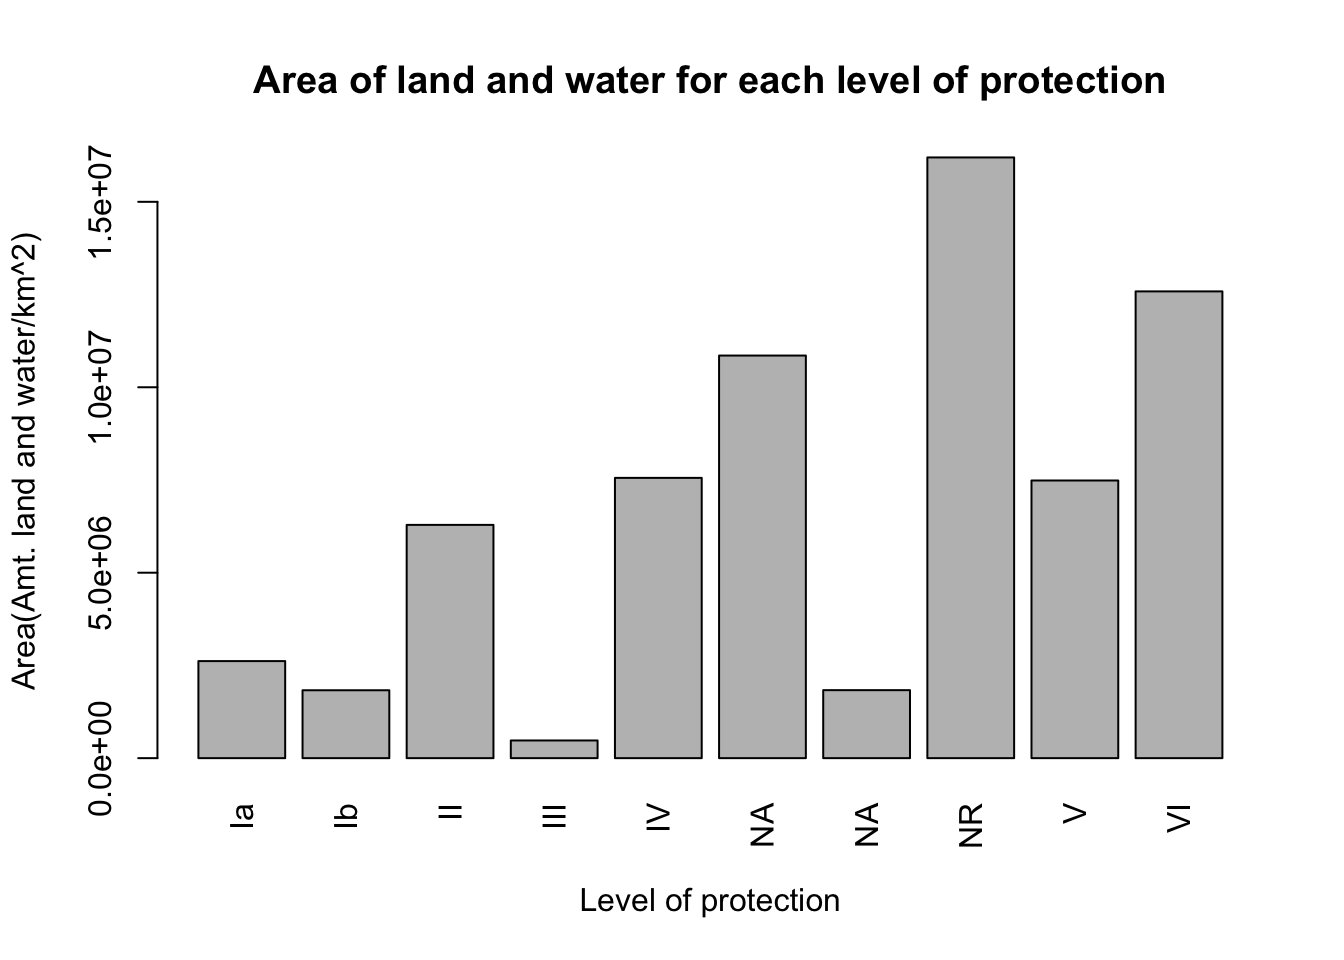
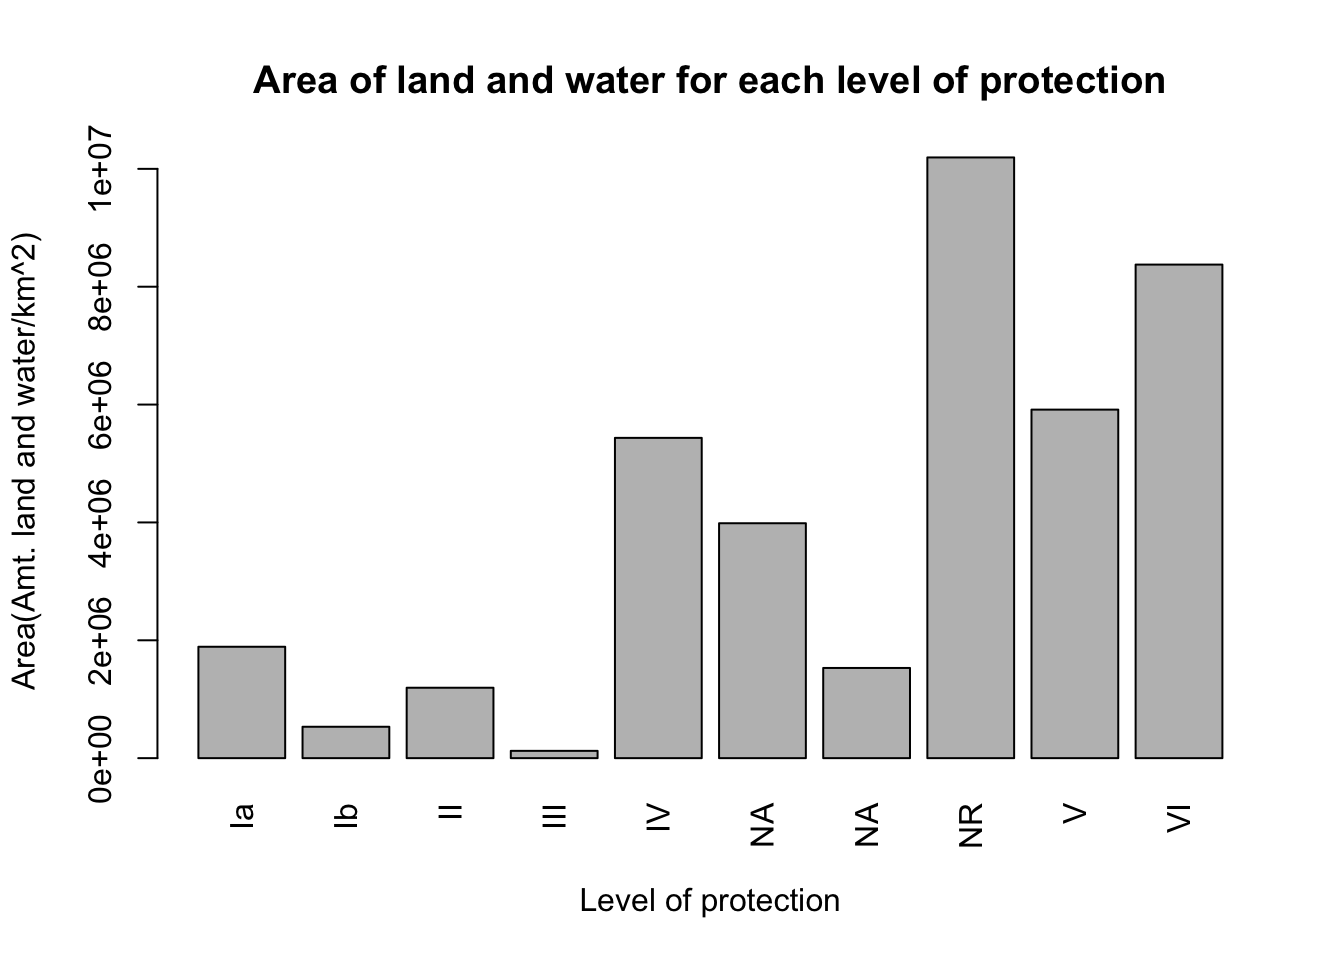
plot

diff --git a/docs/how-to-do-the-analysis-in-r.html b/docs/how-to-do-the-analysis-in-r.html
@@ -350,7 +350,7 @@ code span.wa { color: #60a0b0; font-weight: bold; font-style: italic; } /* Warni
 <ol style="list-style-type: decimal">
 <li>First, we would like to graph the the number of areas in each level of protection. To do this, we will have to group the data according to the level of protection and count the number of areas in each level of protection and saving it as <code>data3</code>. Let’s do it by running this code in the <code>Console</code></li>
 </ol>
-<div class="sourceCode" id="cb17"><pre class="sourceCode r"><code class="sourceCode r"><span id="cb17-1"><a href="how-to-do-the-analysis-in-r.html#cb17-1"></a>data3 &lt;-<span class="st"> </span>data1 <span class="op">%&gt;%</span><span class="st"> </span><span class="kw">group_by</span>(IUCN_CAT) <span class="op">%&gt;%</span><span class="st"> </span><span class="kw">tally</span>()</span></code></pre></div>
+<div class="sourceCode" id="cb17"><pre class="sourceCode r"><code class="sourceCode r"><span id="cb17-1"><a href="how-to-do-the-analysis-in-r.html#cb17-1"></a>data3 &lt;-<span class="st"> </span>data2 <span class="op">%&gt;%</span><span class="st"> </span><span class="kw">group_by</span>(IUCN_CAT) <span class="op">%&gt;%</span><span class="st"> </span><span class="kw">tally</span>()</span></code></pre></div>
 <p>Now we delete the rows that has <code>NAs</code> by running this</p>
 <div class="sourceCode" id="cb18"><pre class="sourceCode r"><code class="sourceCode r"><span id="cb18-1"><a href="how-to-do-the-analysis-in-r.html#cb18-1"></a>data3 &lt;-<span class="st"> </span>data3[<span class="op">-</span><span class="kw">c</span>(<span class="dv">6</span>, <span class="dv">7</span>, <span class="dv">8</span>), ] </span></code></pre></div>
 <p>Now we can use a barplot to show the number of areas under each level of protection. The following code is able to do this</p>
@@ -359,12 +359,12 @@ code span.wa { color: #60a0b0; font-weight: bold; font-style: italic; } /* Warni
 <ol start="2" style="list-style-type: decimal">
 <li>Now we would like to calculate the amount of area that is strongly protected. We can do this by grouping by the <code>IUCN_CAT</code> column of the dataset and summing the <code>REP_AREA</code> accordingly and naming the resulting data as <code>data4</code>. Let’s run this code in the <code>Console</code></li>
 </ol>
-<div class="sourceCode" id="cb20"><pre class="sourceCode r"><code class="sourceCode r"><span id="cb20-1"><a href="how-to-do-the-analysis-in-r.html#cb20-1"></a>data4 &lt;-<span class="st"> </span>data1 <span class="op">%&gt;%</span><span class="st"> </span><span class="kw">group_by</span>(IUCN_CAT) <span class="op">%&gt;%</span><span class="st"> </span><span class="kw">summarise</span>(<span class="dt">REP_AREA =</span> <span class="kw">sum</span>(REP_AREA))</span></code></pre></div>
+<div class="sourceCode" id="cb20"><pre class="sourceCode r"><code class="sourceCode r"><span id="cb20-1"><a href="how-to-do-the-analysis-in-r.html#cb20-1"></a>data4 &lt;-<span class="st"> </span>data2 <span class="op">%&gt;%</span><span class="st"> </span><span class="kw">group_by</span>(IUCN_CAT) <span class="op">%&gt;%</span><span class="st"> </span><span class="kw">summarise</span>(<span class="dt">REP_AREA =</span> <span class="kw">sum</span>(REP_AREA))</span></code></pre></div>
 <p>The barplot showing the area allocations could be plotted by running this code in the <code>Console</code></p>
 <div class="sourceCode" id="cb21"><pre class="sourceCode r"><code class="sourceCode r"><span id="cb21-1"><a href="how-to-do-the-analysis-in-r.html#cb21-1"></a><span class="kw">barplot</span>(data4<span class="op">$</span>REP_AREA, <span class="dt">xlab =</span> <span class="st">&quot;Level of protection&quot;</span>, <span class="dt">ylab=</span><span class="st">&quot;Area(Amt. land and water/km^2)&quot;</span>, <span class="dt">names.arg=</span><span class="kw">c</span>(<span class="st">&quot;Ia&quot;</span>,<span class="st">&quot;Ib&quot;</span>,<span class="st">&quot;II&quot;</span>,<span class="st">&quot;III&quot;</span>,<span class="st">&quot;IV&quot;</span>, <span class="st">&quot;NA&quot;</span>, <span class="st">&quot;NA&quot;</span>,<span class="st">&quot;NR&quot;</span> ,<span class="st">&quot;V&quot;</span>, <span class="st">&quot;VI&quot;</span>), <span class="dt">las=</span><span class="dv">3</span>, <span class="dt">main=</span><span class="st">&quot;Area of land and water for each level of protection&quot;</span>)</span></code></pre></div>
 <p><img src="walktwoods_files/figure-html/unnamed-chunk-18-1.png" width="672" /></p>
 <ol start="3" style="list-style-type: decimal">
-<li>We would like to construct a histogram to graph the size-frequency distribution. Because of the nature of the data, we would need a log-scale histogram to be able to view the frequency of each bin we create for the size. The following <code>code</code> divide the sizes into bins and creates a barplot that shows the frequesncy for each size range.</li>
+<li>We would like to construct a histogram to graph the size-frequency distribution. The nature of the data, would require that we use a log-scale histogram to be able to view the frequency of each bin we create for the size. The following <code>code</code> divide the sizes into bins and create a barplot that shows the frequency for each size range. s</li>
 </ol>
 <div class="sourceCode" id="cb22"><pre class="sourceCode r"><code class="sourceCode r"><span id="cb22-1"><a href="how-to-do-the-analysis-in-r.html#cb22-1"></a>bins &lt;-<span class="st"> </span><span class="kw">c</span>(<span class="dv">0</span>, <span class="dv">250000</span>, <span class="dv">500000</span>, <span class="dv">750000</span>, <span class="dv">1000000</span>, <span class="dv">1250000</span>, <span class="dv">1500000</span>, <span class="dv">1750000</span>, <span class="dv">2000000</span>)</span>
 <span id="cb22-2"><a href="how-to-do-the-analysis-in-r.html#cb22-2"></a>marine_hist &lt;-<span class="st"> </span><span class="kw">hist</span>(data2<span class="op">$</span>REP_AREA, <span class="dt">breaks=</span>bins, <span class="dt">plot=</span><span class="ot">FALSE</span>)</span>
